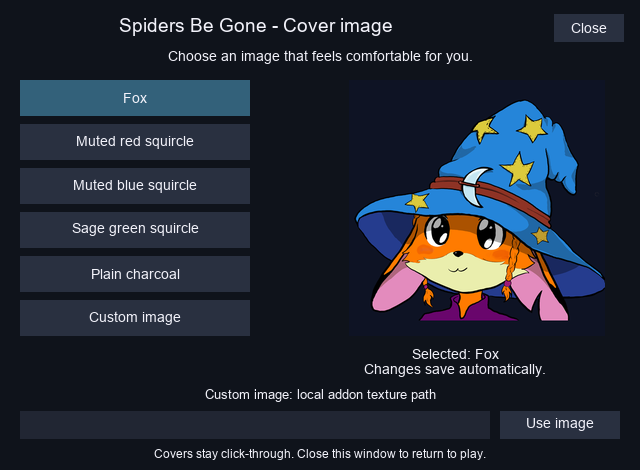
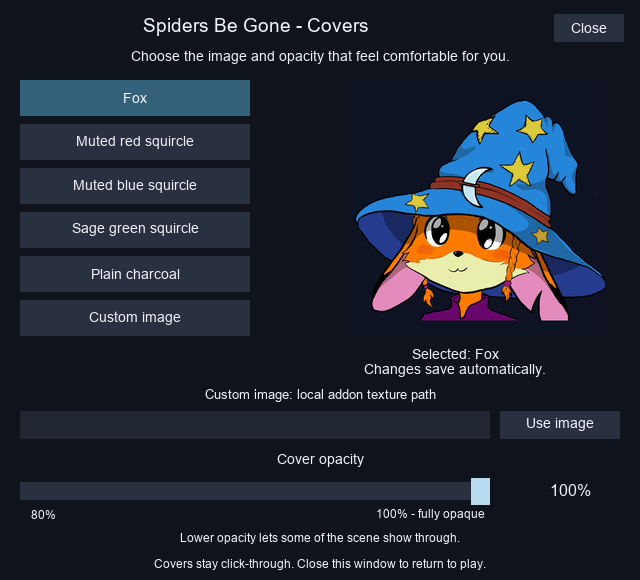
feat: add cover opacity slider bounded between eighty and one hundred percent

diff --git a/tools/package_addon.py b/tools/package_addon.py
@@ -8,6 +8,7 @@ import hashlib
 import os
 import re
 import shutil
+import struct
 
 from lupa.lua51 import LuaRuntime
 
@@ -24,7 +25,7 @@ def main():
     output = root.parent / f"SpidersBeGone-{version}-fixed.zip"
     dependencies = [line.strip() for line in toc_text.splitlines()
                     if line.strip() and not line.startswith("#")]
-    sources = [toc_path, addon / "icon.tga"]
+    sources = [toc_path, addon / "icon.tga", addon / "preview-checker.tga"]
     # Only shipped presets belong in a release; never collect private custom art.
     sources.extend(addon / name for name in (
         "cover.tga", "cover-red.tga", "cover-blue.tga", "cover-sage.tga", "cover-charcoal.tga"))
@@ -32,6 +33,14 @@ def main():
     for source in sources:
         if not source.resolve().is_relative_to(addon.resolve()) or not source.is_file():
             raise ValueError(f"Invalid addon dependency: {source}")
+        if source.name.startswith("cover") and source.suffix == ".tga":
+            # PaintCover fades one image layer for shipped art. Its full-frame
+            # backing must therefore already be baked into an opaque RGB file.
+            data = source.read_bytes()
+            width, height = struct.unpack_from("<HH", data, 12)
+            assert data[2] == 2 and data[16] == 24, source.name
+            assert width > 0 and height > 0 and width & (width - 1) == 0 and height & (height - 1) == 0
+            assert len(data) >= 18 + width * height * 3
 
     with ZipFile(output, "w", compression=ZIP_DEFLATED) as archive:
         for source in sorted(set(sources)):

diff --git a/tools/make_backgrounds.py b/tools/make_backgrounds.py
@@ -39,6 +39,14 @@ def main():
         (ROOT / "SpidersBeGone" / f"cover-{name}.tga").write_bytes(header + body)
         write_png(str(previews / f"cover-{name}_preview.png"), SIZE, SIZE, rows)
     print("Generated red, blue, sage and charcoal presets with opaque backings")
+    # Editor-only transparency preview; never used as a model cover.
+    header = struct.pack("<BBBHHBHHHHBB", 0, 0, 2, 0, 0, 0, 0, 0, 64, 64, 24, 0x20)
+    body = bytearray()
+    for y in range(64):
+        for x in range(64):
+            color = (88, 94, 108) if (x // 8 + y // 8) % 2 else (134, 140, 154)
+            body.extend(reversed(color))
+    (ROOT / "SpidersBeGone" / "preview-checker.tga").write_bytes(header + body)
 
 
 if __name__ == "__main__":

diff --git a/docs/HANDOFF.md b/docs/HANDOFF.md
@@ -1,4 +1,4 @@
-# Handoff: v0.3.1 automatic nameplate covers only
+# Handoff: v0.3.2 automatic nameplate covers only
 
 **Primary in-game test machine: the user's partner's computer
 (`evelyn-loves-coffee`).** This checkout is for development and packaging.
@@ -7,7 +7,7 @@ without results from that machine. Core tracking was previously verified
 there in Tirisfal; this removal of the input-taking cover system needs a new
 live check. See [TRACKING-ONLY.md](TRACKING-ONLY.md) for the test sequence.
 
-## Why this release exists
+## Previous cursor incident and upgrade
 
 The user reported that an old layout command spawned a screen cover on the
 partner's client. Clicking it broke mouse control, including after `/reload`.
@@ -33,7 +33,11 @@ Recovery of the already affected native client requires partner validation.
   and clears the death warning. Disabled state survives reloads. Tracking
   requires no targeting, mouseover or cursor queries.
 - `/spider config` explicitly opens an image picker. That editor accepts input;
-  cover frames never do. Fox, muted red/blue/sage and plain charcoal remain,
+  cover frames never do. The opacity slider spans 80-100% in 1% steps and
+  applies immediately to existing covers and the checkerboard preview. Native
+  no-argument slider callbacks query their own value; refresh guards prevent
+  recursion. Percentage buttons are used if the client rejects Slider APIs.
+  Fox, muted red/blue/sage and plain charcoal remain,
   along with local custom TGA textures. Choices save and apply immediately.
   See [COVER-IMAGES.md](COVER-IMAGES.md). Command selection remains available
   if the client rejects window APIs. Close releases edit-box focus.
@@ -49,8 +53,10 @@ Recovery of the already affected native client requires partner validation.
 ## Settings and calibration
 
 Schema 4 deletes `covers`, `parkCount`, `arrange`, `autoTrack`, `stickyCovers`
-and obsolete color/opacity fields. The enabled preference, selected image,
-custom path, extra names and tracking calibration are preserved. Migration
+and the obsolete color field. `opacity` is now a supported setting: it defaults
+to 1, rounds to 1% steps and clamps to 0.8-1 on load, input and rendering.
+The enabled preference, selected image, custom path, extra names and tracking
+calibration are preserved. Migration
 runs both at script load and the actual SavedVariables restore point.
 
 Defaults: `trackScale=1.6`, `drop=0.5`, `nearThreshold=0` (off), `nearBoost=2.6`,
@@ -70,7 +76,8 @@ beyond a cover. No UI-layer workaround for missing world projection is used.
 - `Access.lua` / `Units.lua`: readable public queries and spider recognition.
 - `DeathWarning.lua`: bounded recent observations and brief centered notice.
 - `tools/test_core.lua`: client stubs prohibit movement/screen reads and record
-  mouse-enable history; regressions cover supported behavior and old-state cleanup.
+  mouse-enable history; regressions cover supported behavior, old-state cleanup,
+  opacity bounds, alpha rendering and slider/button compatibility.
 
 From the repository root:
 
@@ -81,7 +88,7 @@ uv run --offline --with lupa python tools/package_addon.py
 git diff --check
 ```
 
-The installable `SpidersBeGone-0.3.1-fixed.zip` is in the repository's parent
+The installable `SpidersBeGone-0.3.2-fixed.zip` is in the repository's parent
 directory; logs and extracted-source checks are ignored under `dist/`.
 Packaging includes only current guides and an explicit list of approved
 artwork. Historical design/probe documents remain in Git for reference;
@@ -95,3 +102,9 @@ Era is the selected MIT source if general area metadata becomes necessary.
 Questie data is excluded. NoSpider is credited inspiration; none of its code,
 artwork or data was copied. Wowhead-derived bulk spawn data is excluded.
 See [DATA-SOURCES.md](DATA-SOURCES.md).
+
+The v0.3.2 slider, thumb rendering and focus release need live validation on
+the partner's machine. Test both endpoints, reload at an intermediate value,
+and confirm ground/camera controls still pass through live covers. Shipped
+textures are validated opaque RGB and fade as one image layer; custom images
+retain a backing and may look more opaque, never less opaque than the setting.

diff --git a/README.md b/README.md
@@ -4,9 +4,9 @@ Addon for **World of Warcraft Forever** (classic 1.x-line client, v1.60.1) that
 covers spider models with a nameplate-attached UI element. UI-layer only: no model
 swaps, no game-file modification.
 
-**Status: v0.3.1 — core tracking verified in game 2026-10-16 (Tirisfal);
-only automatic nameplate covers remain. The fox, background presets, custom
-images and brief corpse warning are retained. The new build passes offline
+**Status: v0.3.2 — core tracking verified in game 2026-10-16 (Tirisfal);
+automatic nameplate covers, image choices and a bounded 80-100% opacity
+slider. The fox, simple backgrounds, custom images and brief corpse warning remain. The new build passes offline
 checks; live validation belongs on the partner's test machine.**
 Tracked covers are now **children of the spider's nameplate**, so native
 movement and scale apply to the cover and its offset between polling ticks.
@@ -36,13 +36,14 @@ for the historical design and client-probe records.
 Extract the fixed ZIP and replace the `SpidersBeGone/` folder in your client's
 `Interface/AddOns/` directory, then log in or `/reload`. The `.toc` must be at
 `Interface/AddOns/SpidersBeGone/SpidersBeGone.toc`, without an extra nested
-repository folder. `/spider` should report **v0.3.1**.
+repository folder. `/spider` should report **v0.3.2**.
 
 Choose your cover with **`/spider config`**. The default is the supplied fox
 illustration; alternatives are muted red, blue and sage squircles, plain
 charcoal, or your own local image. Choices update existing covers immediately
-and save automatically. Every cover has an opaque backing and preserves its
-original colors. See [the image guide](docs/COVER-IMAGES.md) for previews, commands
+and save automatically. The picker also has an **opacity slider from 80% to
+100%**, in 1% steps, defaulting to fully opaque. Its preview updates immediately;
+lower opacity lets some of the scene show through. Artwork keeps its original colors. See [the image guide](docs/COVER-IMAGES.md) for previews, commands
 and custom-image preparation. Tracking stays click-through and requires no
 mouseover; the 1.75-second corpse warning is unchanged.
 
@@ -129,6 +130,7 @@ review and Classic filtering rules are in [docs/DATA-SOURCES.md](docs/DATA-SOURC
 | :-- | :-- |
 | `/spider` | diagnostics: version, build, enabled, tracking, covers shown, limited / paused |
 | `/spider config` | open the cover picker with preview, presets and custom-image path |
+| `/spider opacity [0.8-1]` | report or set bounded cover opacity; also available in the picker |
 | `/spider cover <choice>` | select `fox`, `red`, `blue`, `sage`, `charcoal`, or `custom <local .tga path>` |
 | `/spider enable` | enable tracking and retry paused coverage; enabled by default |
 | `/spider disable` | stop tracking and hide every cover; stays disabled after reload |
@@ -145,9 +147,9 @@ review and Classic filtering rules are in [docs/DATA-SOURCES.md](docs/DATA-SOURC
 
 `/spider on` and `/spider off` remain compatibility aliases for enable/disable.
 
-**Upgrade to v0.3.1:** old screen-cover layouts and editing modes are deleted
+**Upgrade from before v0.3.1:** old screen-cover layouts and editing modes are deleted
 for every character, including settings loaded late by the client. The
-selected image, custom path, enabled preference and tracking calibration are
+selected image, custom path, enabled preference, opacity and tracking calibration are
 preserved. Cover positions are never saved; covers are rebuilt from live
 nameplates. The removed layout/reset commands are no longer accepted.
 

diff --git a/docs/TRACKING-ONLY.md b/docs/TRACKING-ONLY.md
@@ -1,4 +1,4 @@
-# v0.3.1: automatic nameplate covers only
+# v0.3.2: automatic nameplate covers only
 
 The addon attaches its own click-through covers to accessible spider
 nameplates. No targeting, mouseover or pointer input is required. Every
@@ -11,6 +11,7 @@ attachment, reuse, failed cleanup and removal.
 - `/spider disable`: release and hide covers; stays disabled after reload.
 - `/spider config`: explicitly open the image picker, with presets and a custom path.
 - `/spider cover <choice>`: choose an image through chat commands.
+- `/spider opacity 0.8-1`: set the same bounded opacity offered in the picker.
 - `/spider`: show status and diagnostics. `/spider help` lists supported commands.
 
 `on`, `off` and `toggle` remain compatibility aliases. Coverage calibration
@@ -26,7 +27,8 @@ corpse notice remains click-through and expires after 1.75 seconds.
 
 Schema 4 removes the entire old `covers` table across all characters, plus
 `parkCount`, `arrange`, retired detection selectors and obsolete tint/opacity
-fields. Migration runs at script load and again at the real settings restore
+fields in v0.3.1. v0.3.2 adds a supported, clamped `opacity` setting (default 1).
+Migration runs at script load and again at the real settings restore
 point, since this client can replace SavedVariables after the addon loads.
 An old `arrange=true` cannot pause tracking or make a cover accept clicks.
 
@@ -44,7 +46,7 @@ successful installation or native input behavior there.
 
 The reported stuck-cursor incident survived `/reload`. Fully exit the game
 before replacing `Interface/AddOns/SpidersBeGone/` with this version, then
-restart and confirm bare `/spider` reports v0.3.1. Existing supported settings
+restart and confirm bare `/spider` reports v0.3.2. Existing supported settings
 can remain in place; migration deletes the old layout automatically.
 
 1. Log in away from spiders: no leftover cover should appear, and mouse and
@@ -54,8 +56,10 @@ can remain in place; migration deletes the old layout automatically.
    control must pass through them. Clicking a cover must not move it.
 3. Disable, reload and relog: no cover should appear. Enable: only live
    nameplate covers should resume.
-4. Open the image picker, change presets/custom art, close it, and check
-   mouse and keyboard focus return to the game. Image choice should persist.
+4. Open the picker, change presets/custom art and try the opacity slider
+   at 80%, an intermediate value and 100%. The preview and live covers should
+   update immediately. Close it and check mouse/keyboard focus return to the
+   game. Image choice and opacity should persist after reload.
 5. Verify the look-away popup after an observed death: centered, click-through,
    gone after 1.5 to 2 seconds. The corpse itself can remain visible.
 

diff --git a/docs/COVER-IMAGES.md b/docs/COVER-IMAGES.md
@@ -1,4 +1,4 @@
-# Choose your cover image (v0.3.1)
+# Choose your cover image (v0.3.2)
 
 Run `/spider config` to open the cover picker. Click a preset to preview it
 and update every cover immediately. The choice is saved in addon settings
@@ -25,9 +25,8 @@ the addon is disabled keeps it disabled. Tracking, cover sizing and the
 For simple backgrounds, these are starting suggestions to try according to
 personal preference. They have no animation, patterns or spider imagery.
 All shipped textures have opaque pixels throughout the square: the rounded
-shapes sit on a solid dark blue backing so their corners cannot reveal a
-model. Covers remain fully opaque and preserve picture colors regardless of
-old tint/opacity settings. Models can still extend beyond an undersized or
+shapes sit on a solid dark blue backing. Picture colors are preserved.
+Opacity defaults to 100%; at lower settings the scene can show through. Models can still extend beyond an undersized or
 misaligned cover; the nameplate-tracking limitations still apply.
 
 `/spider cover` lists choices and the selected image. `/spider options` is
@@ -37,6 +36,28 @@ the addon prints command-based instructions and tracking continues.
 Offline layout preview (client fonts/rendering may differ):
 
 ![Cover picker layout](art/config_preview.png)
+
+## Opacity
+
+The slider in `/spider config` runs only from **80% to 100%**, with 1% steps.
+The default is **100% (fully opaque)**. Changes update the checkerboard preview
+and existing covers immediately, save automatically and survive reloads.
+Choosing a different image preserves opacity; adjusting opacity does not
+replace an unfinished custom-image path. Lower opacity lets some of the
+scene show through, so use 100% for complete opacity within the cover.
+
+The range is enforced in the control, saved-settings migration and rendering,
+so a low or invalid old value cannot draw a cover below the 80% setting.
+Missing/invalid numeric values use 100%; values below 80% clamp to 80%, and
+values above 100% clamp to 100%. The editor and corpse warning are not faded.
+Custom images retain a backing and may appear more opaque than the selected
+value, protecting areas where an image contains transparent pixels.
+
+Command fallback: `/spider opacity 0.8` or `/spider opacity 1`; bare
+`/spider opacity` reports the current value. If the client rejects native
+Slider APIs, the picker keeps working with 80/85/90/95/100% buttons. Covers
+remain permanently click-through; only the explicit configuration window
+accepts slider input. Native slider rendering still needs partner validation.
 
 ## Use your own image
 
